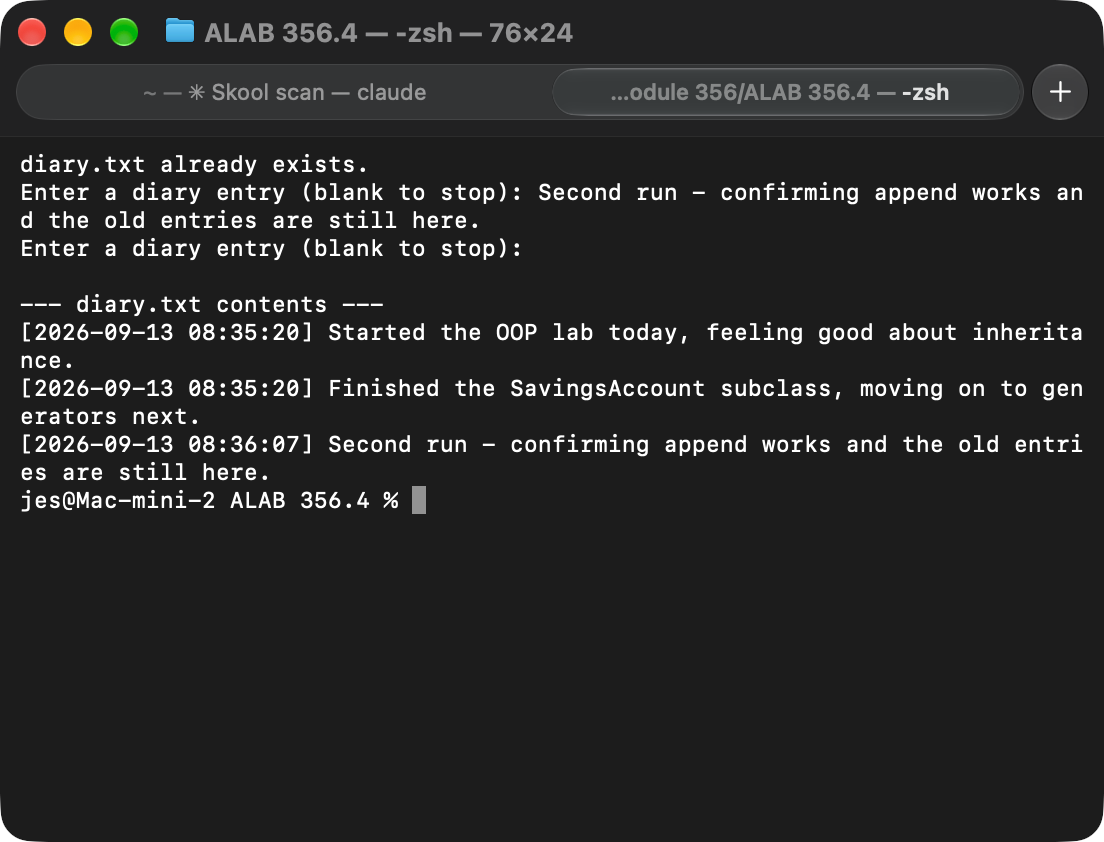
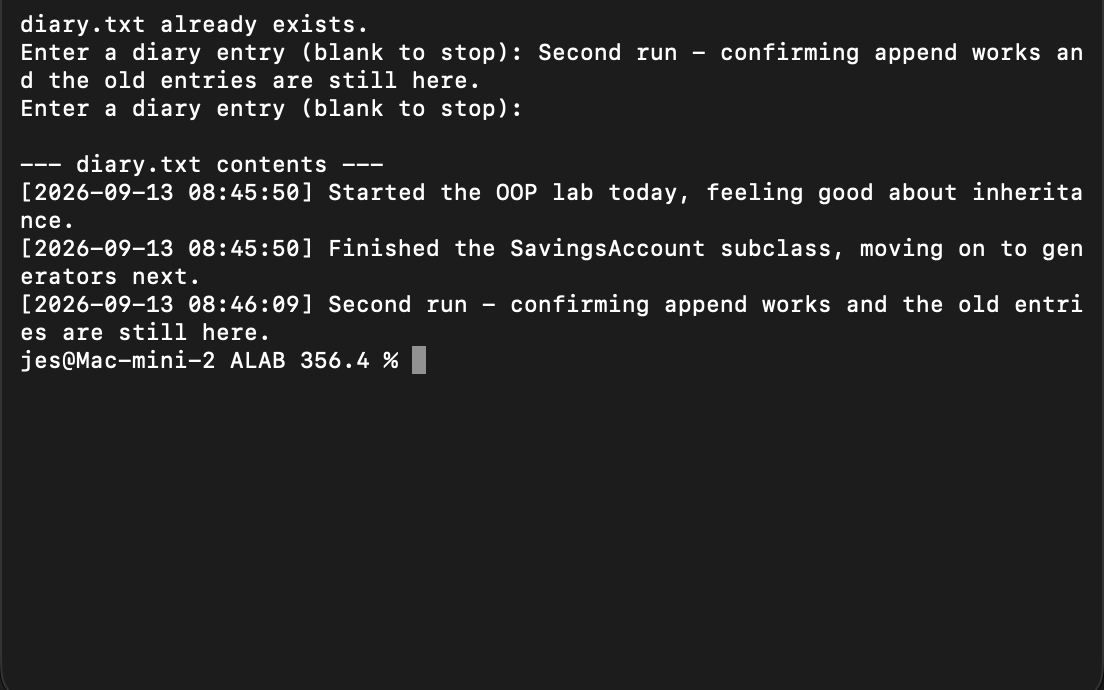
Fix ALAB 356.4 screenshots - crop stray tab bar, retake multiplier_closure with clean prompt

diff --git a/modules/Module 356/ALAB 356.4/ALAB-356.4-output-logs.md b/modules/Module 356/ALAB 356.4/ALAB-356.4-output-logs.md
@@ -50,8 +50,8 @@ Enter a diary entry (blank to stop): Finished the SavingsAccount subclass, movin
 Enter a diary entry (blank to stop):
 
 --- diary.txt contents ---
-[2026-09-13 08:35:20] Started the OOP lab today, feeling good about inheritance.
-[2026-09-13 08:35:20] Finished the SavingsAccount subclass, moving on to generators next.
+[2026-09-13 08:45:50] Started the OOP lab today, feeling good about inheritance.
+[2026-09-13 08:45:50] Finished the SavingsAccount subclass, moving on to generators next.
 ```
 
 **Run 2 — file already exists, new entry appends below the old ones:**
@@ -63,9 +63,9 @@ Enter a diary entry (blank to stop): Second run - confirming append works and th
 Enter a diary entry (blank to stop):
 
 --- diary.txt contents ---
-[2026-09-13 08:35:20] Started the OOP lab today, feeling good about inheritance.
-[2026-09-13 08:35:20] Finished the SavingsAccount subclass, moving on to generators next.
-[2026-09-13 08:36:07] Second run - confirming append works and the old entries are still here.
+[2026-09-13 08:45:50] Started the OOP lab today, feeling good about inheritance.
+[2026-09-13 08:45:50] Finished the SavingsAccount subclass, moving on to generators next.
+[2026-09-13 08:46:09] Second run - confirming append works and the old entries are still here.
 ```
 
 Both entries from run 1 are still there in run 2 — `open(DIARY_FILE, "a")`

diff --git a/modules/Module 356/ALAB 356.4/README.md b/modules/Module 356/ALAB 356.4/README.md
@@ -71,8 +71,8 @@ diary.txt did not exist - created it.
 Enter a diary entry (blank to stop): Started the OOP lab today, feeling good about inheritance.
 ...
 --- diary.txt contents ---
-[2026-09-13 08:35:20] Started the OOP lab today, feeling good about inheritance.
-[2026-09-13 08:35:20] Finished the SavingsAccount subclass, moving on to generators next.
+[2026-09-13 08:45:50] Started the OOP lab today, feeling good about inheritance.
+[2026-09-13 08:45:50] Finished the SavingsAccount subclass, moving on to generators next.
 ```
 
 ```
@@ -80,9 +80,9 @@ diary.txt already exists.
 Enter a diary entry (blank to stop): Second run - confirming append works and the old entries are still here.
 ...
 --- diary.txt contents ---
-[2026-09-13 08:35:20] Started the OOP lab today, feeling good about inheritance.
-[2026-09-13 08:35:20] Finished the SavingsAccount subclass, moving on to generators next.
-[2026-09-13 08:36:07] Second run - confirming append works and the old entries are still here.
+[2026-09-13 08:45:50] Started the OOP lab today, feeling good about inheritance.
+[2026-09-13 08:45:50] Finished the SavingsAccount subclass, moving on to generators next.
+[2026-09-13 08:46:09] Second run - confirming append works and the old entries are still here.
 ```
 
 The second run's new entry lands after the first two — appending, not
